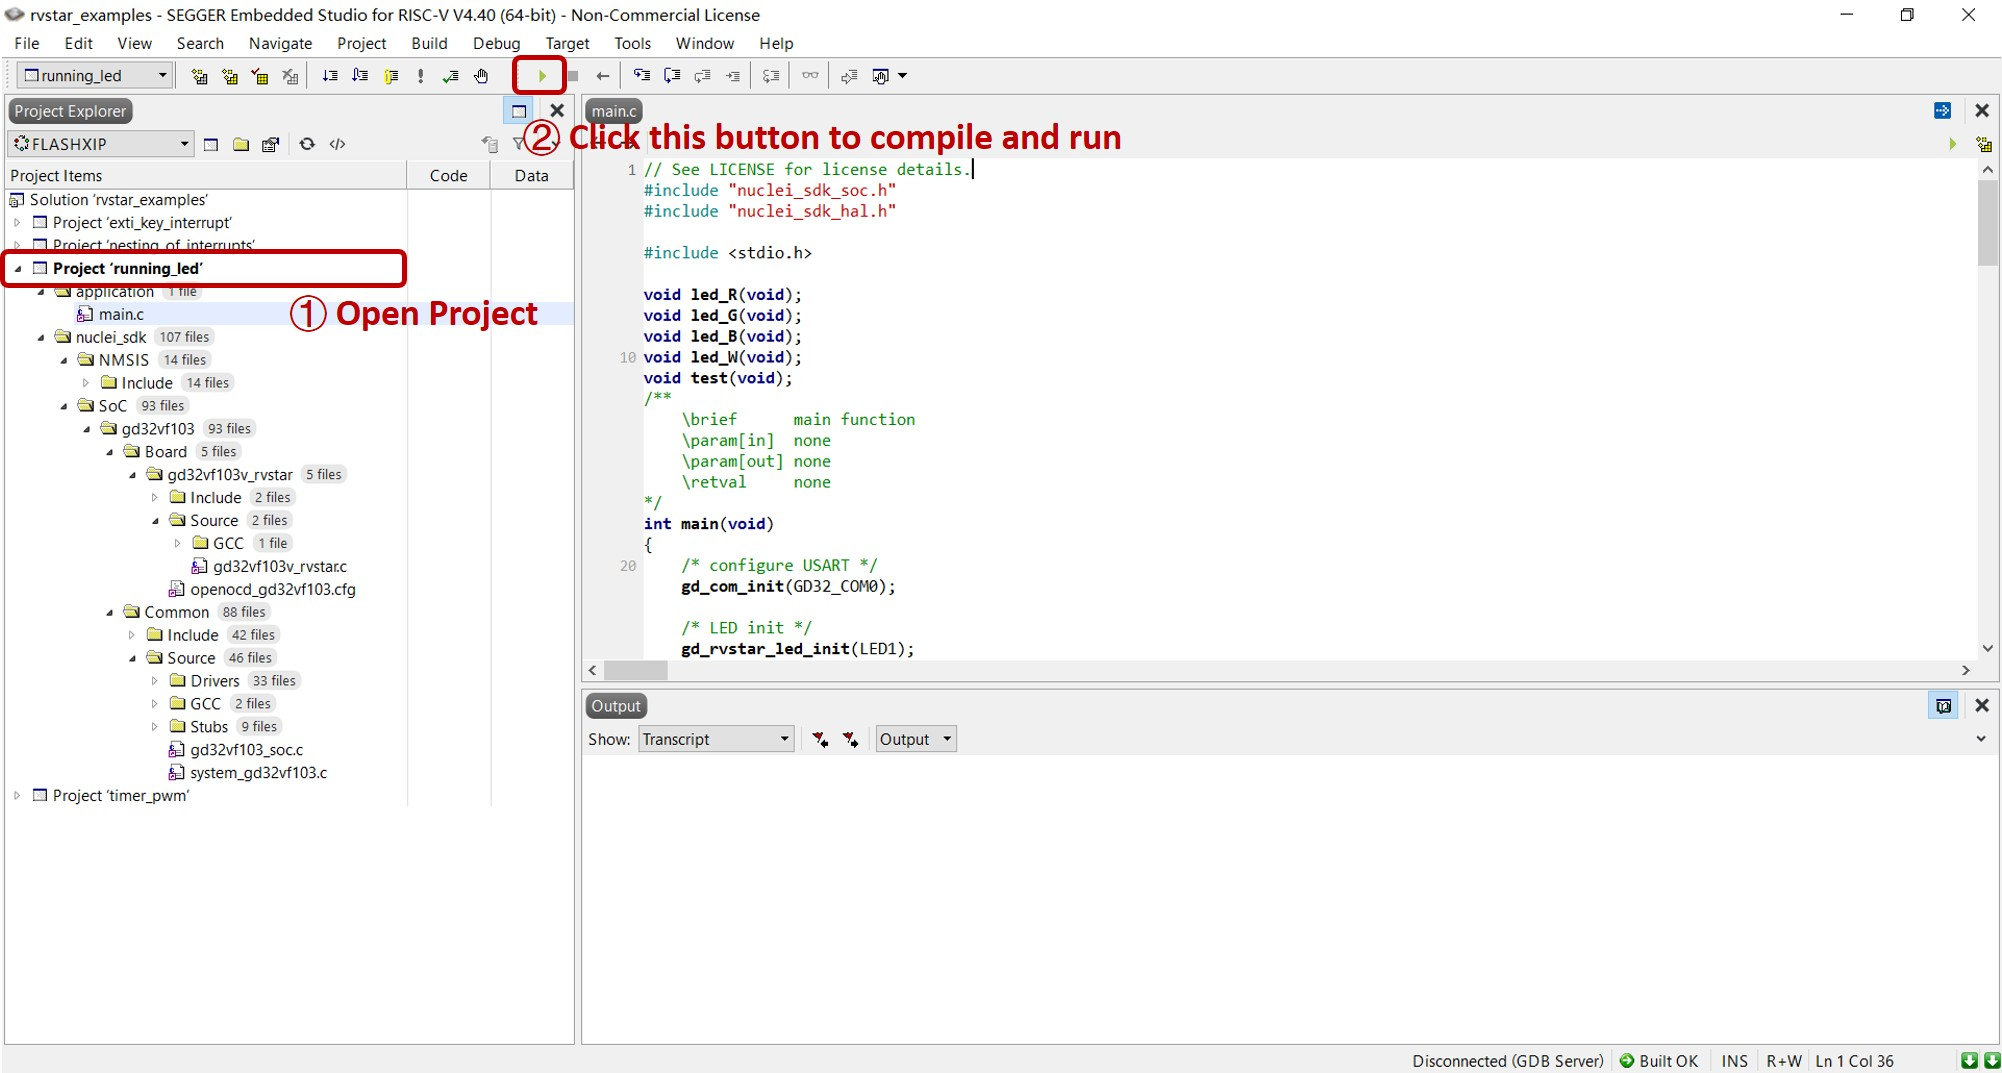
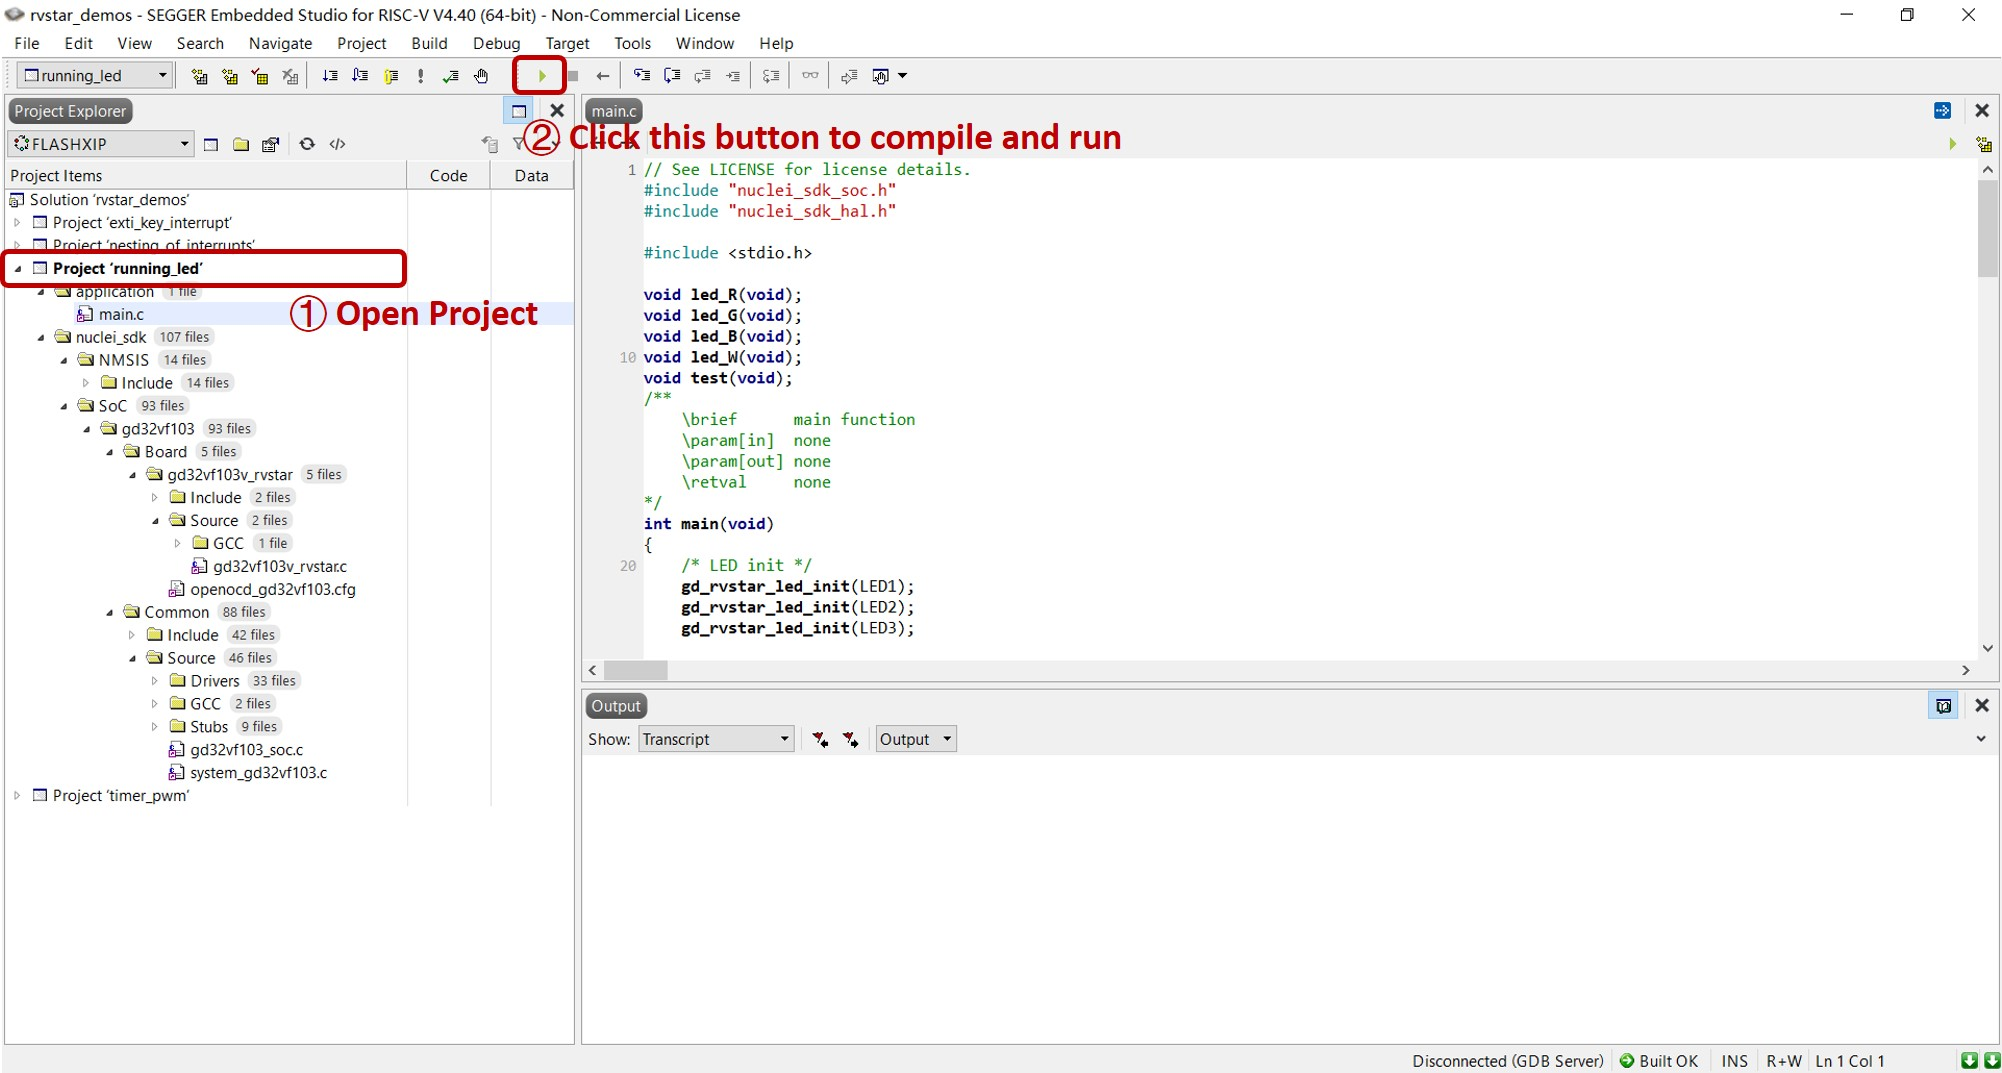
update ses pic

diff --git a/doc/source/overview/overview.rst b/doc/source/overview/overview.rst
@@ -10,7 +10,7 @@ This is a handbook for Nuclei Board Labs which is a part of courses in Nuclei Un
 This handbook describes how to develop with |nuclei_board| through a step-by-step way, it can be used as lab teaching metarials. 
 Anyone interested in |nuclei_core| can also take this handbook as a quick start-up to develop with |nuclei_core| in the field of embedded systems.
 
-The architecture of Nuclei Board Labs are shown in the block diagram below.
+The hierarchy of Nuclei Board Labs are shown in the block diagram below.
 
 .. _figure_overview_1:
 
@@ -18,7 +18,7 @@ The architecture of Nuclei Board Labs are shown in the block diagram below.
    :width: 600
    :alt: overview_fig1
 
-   Architecture of Nuclei Board Labs
+   Hierarchy of Nuclei Board Labs
 
 The labs are developed based on the `Nuclei Software Development Kit (Nuclei SDK) <https://github.com/Nuclei-Software/nuclei-sdk>`__ which is an open software platform to facilitate the software development of systems based on |nuclei_core|. 
 

diff --git a/doc/source/getstarted/getstarted.rst b/doc/source/getstarted/getstarted.rst
@@ -88,9 +88,9 @@ If the download is successful, the following folder structure is displayed:
     │   ├── OS
     │   ├── SoC
     │   └── test
-    └──rvstar_examples
-       ├── rvstar_examples.emProject
-       └── rvstar_examples.emSession
+    └──rvstar_demos
+       ├── rvstar_demos.emProject
+       └── rvstar_demos.emSession
 
 
 Quick Start
